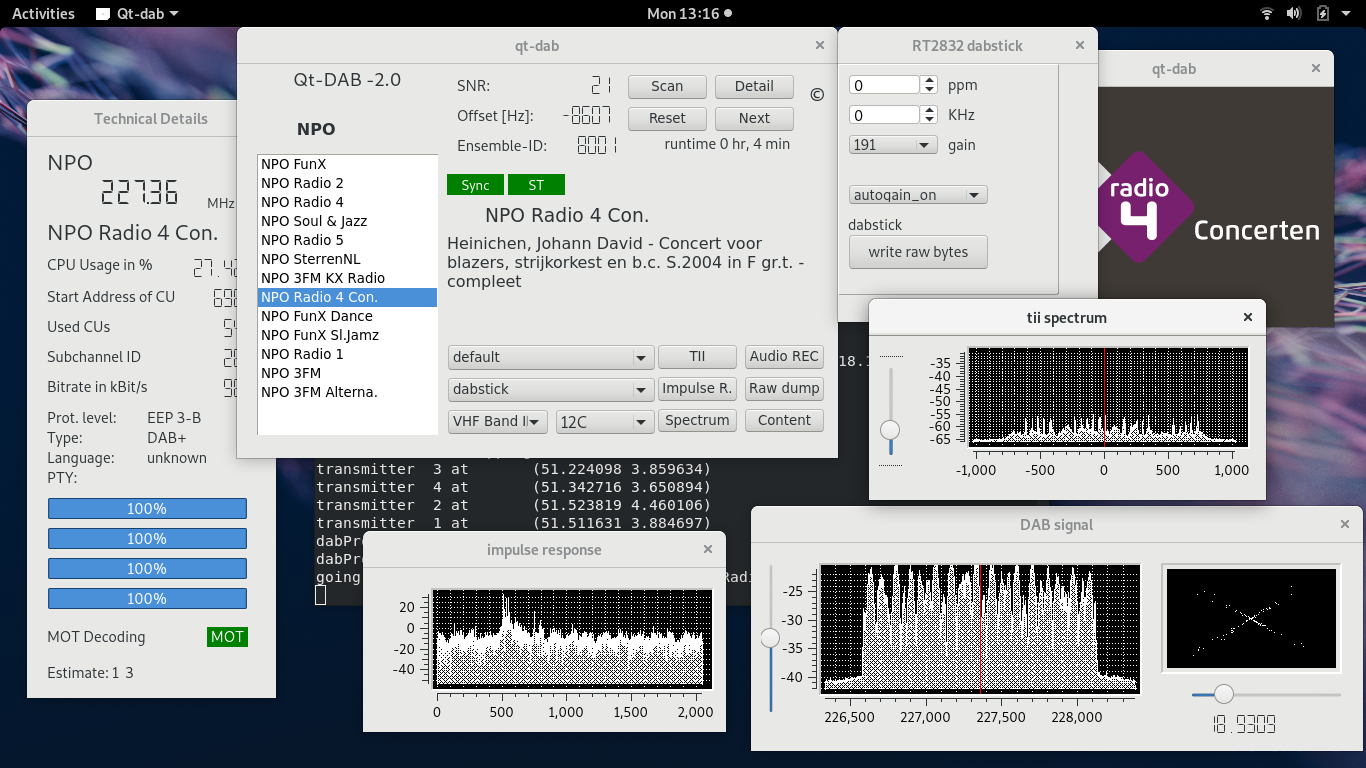
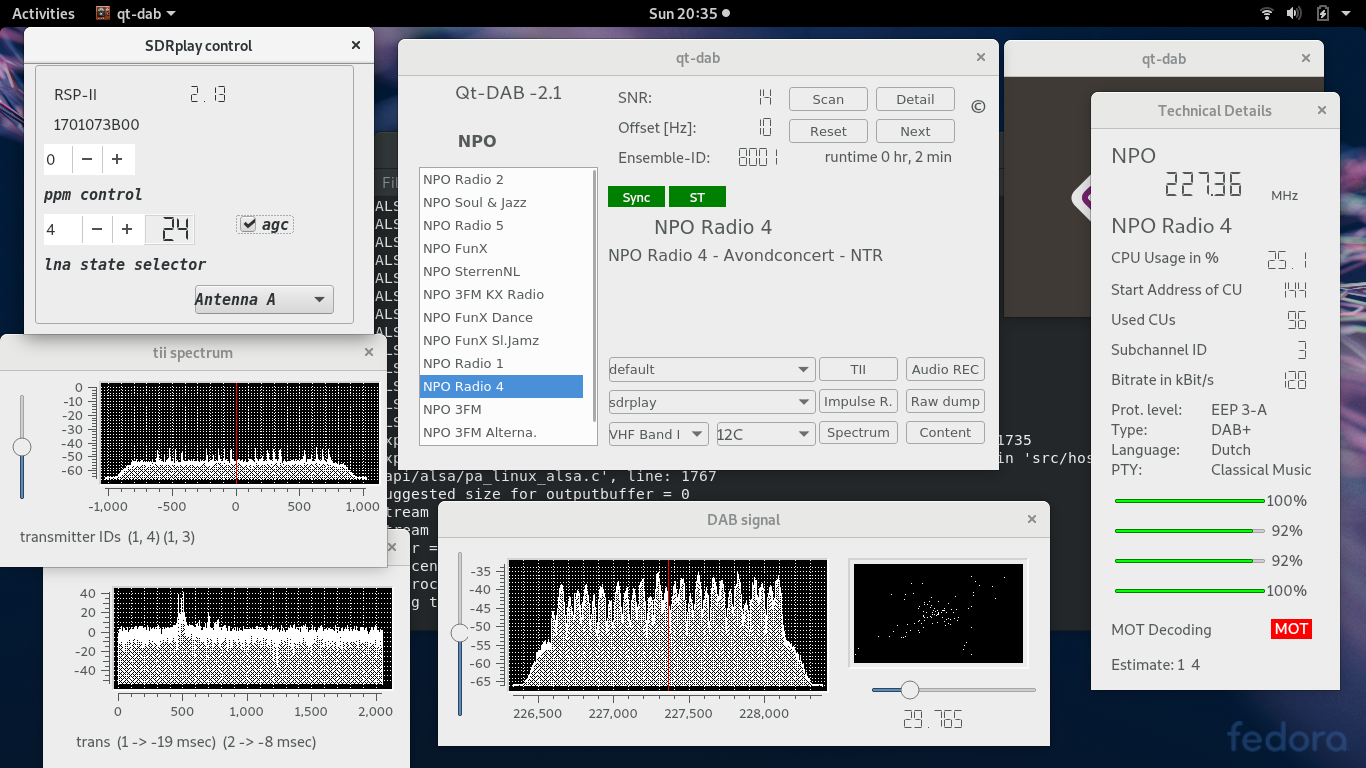
changes in README

diff --git a/src/backend/audio/mp2processor.cpp b/src/backend/audio/mp2processor.cpp
@@ -296,9 +296,10 @@ int32_t	mp2Processor::mp2sampleRate	(uint8_t *frame) {
 // DECODE HELPER FUNCTIONS                                                    //
 ////////////////////////////////////////////////////////////////////////////////
 
-struct quantizer_spec* mp2Processor::read_allocation(int sb, int b2_table) {
-    int table_idx = quant_lut_step3[b2_table][sb];
-    table_idx = quant_lut_step4[table_idx & 15][get_bits(table_idx >> 4)];
+struct quantizer_spec*
+	mp2Processor::read_allocation (int sb, int b2_table) {
+int table_idx = quant_lut_step3 [b2_table][sb];
+    table_idx = quant_lut_step4 [table_idx & 15] [get_bits(table_idx >> 4)];
     return table_idx ? (&quantizer_table[table_idx - 1]) : 0;
 }
 
@@ -326,13 +327,13 @@ register int val;
 	adj = q -> nlevels;
 	if (q -> grouping) { // decode grouped samples
 	   val = get_bits (q -> cw_bits);
-	   sample[0] = val % adj;
+	   sample [0] = val % adj;
 	   val /= adj;
-	   sample[1] = val % adj;
-	   sample[2] = val / adj;
+	   sample [1] = val % adj;
+	   sample [2] = val / adj;
 	} else { // decode direct samples
 	   for (idx = 0;  idx < 3;  ++idx)
-	      sample[idx] = get_bits(q->cw_bits);
+	      sample [idx] = get_bits (q -> cw_bits);
 	}
 
 	// postmultiply samples

diff --git a/README.md b/README.md
@@ -20,6 +20,11 @@ a. if "tii_depth=xxx" is set (xxx being 3 or 4) the tii search is done for a max
 b. if "echo_depth=xxx" is set (xxx being 3 or 4) the delays of the secondary for a maximum of xxx 
 transmitters are computed.
 
+The picture shows that (at least) two transmitters are being received,
+identified as (1, 4) and (1, 3) and that it seems that signals are
+being picked up from transmitters, other than the "main" one, with signals
+that arrive resp 19 msec and 8 msec earlier.
+
 ------------------------------------------------------------------
 Table of Contents
 ------------------------------------------------------------------
